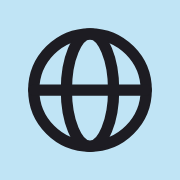
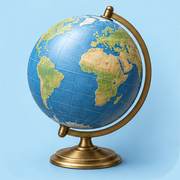
Ikona aplikacji z ChatGPT: dojrzała, bez maskotki

diff --git a/sw.js b/sw.js
@@ -3,7 +3,7 @@
 // najwyżej chwilę; bez sieci albo przy wolnej sieci — z pamięci. Krótkie nagrania (nagrania/*.mp3) idą prosto z sieci,
 // bo odtwarzacz prosi o kawałki pliku; pełne nagrania z prywatnego repo trzyma osobna pamięć „geografoza-nagrania”
 // (js/store.js), której ten plik nie czyści. Zapytania do api.github.com i ogarnijmaterial.pl (inne źródło) — bez SW.
-const CACHE = 'geografoza-v8';
+const CACHE = 'geografoza-v9';
 const SHELL = ['./', 'index.html', 'styles.css', 'manifest.webmanifest', 'js/app.js', 'js/dom.js', 'js/gra.js', 'js/sprawdz.js',
   'js/store.js', 'js/konto.js', 'js/dzwieki.js', 'zestawy/indeks.json', 'zestawy/spis.json', 'ikony/ikona-180.png', 'ikony/ikona-192.png',
   'fonts/Jost.ttf', 'fonts/LibreBaskerville.ttf',
